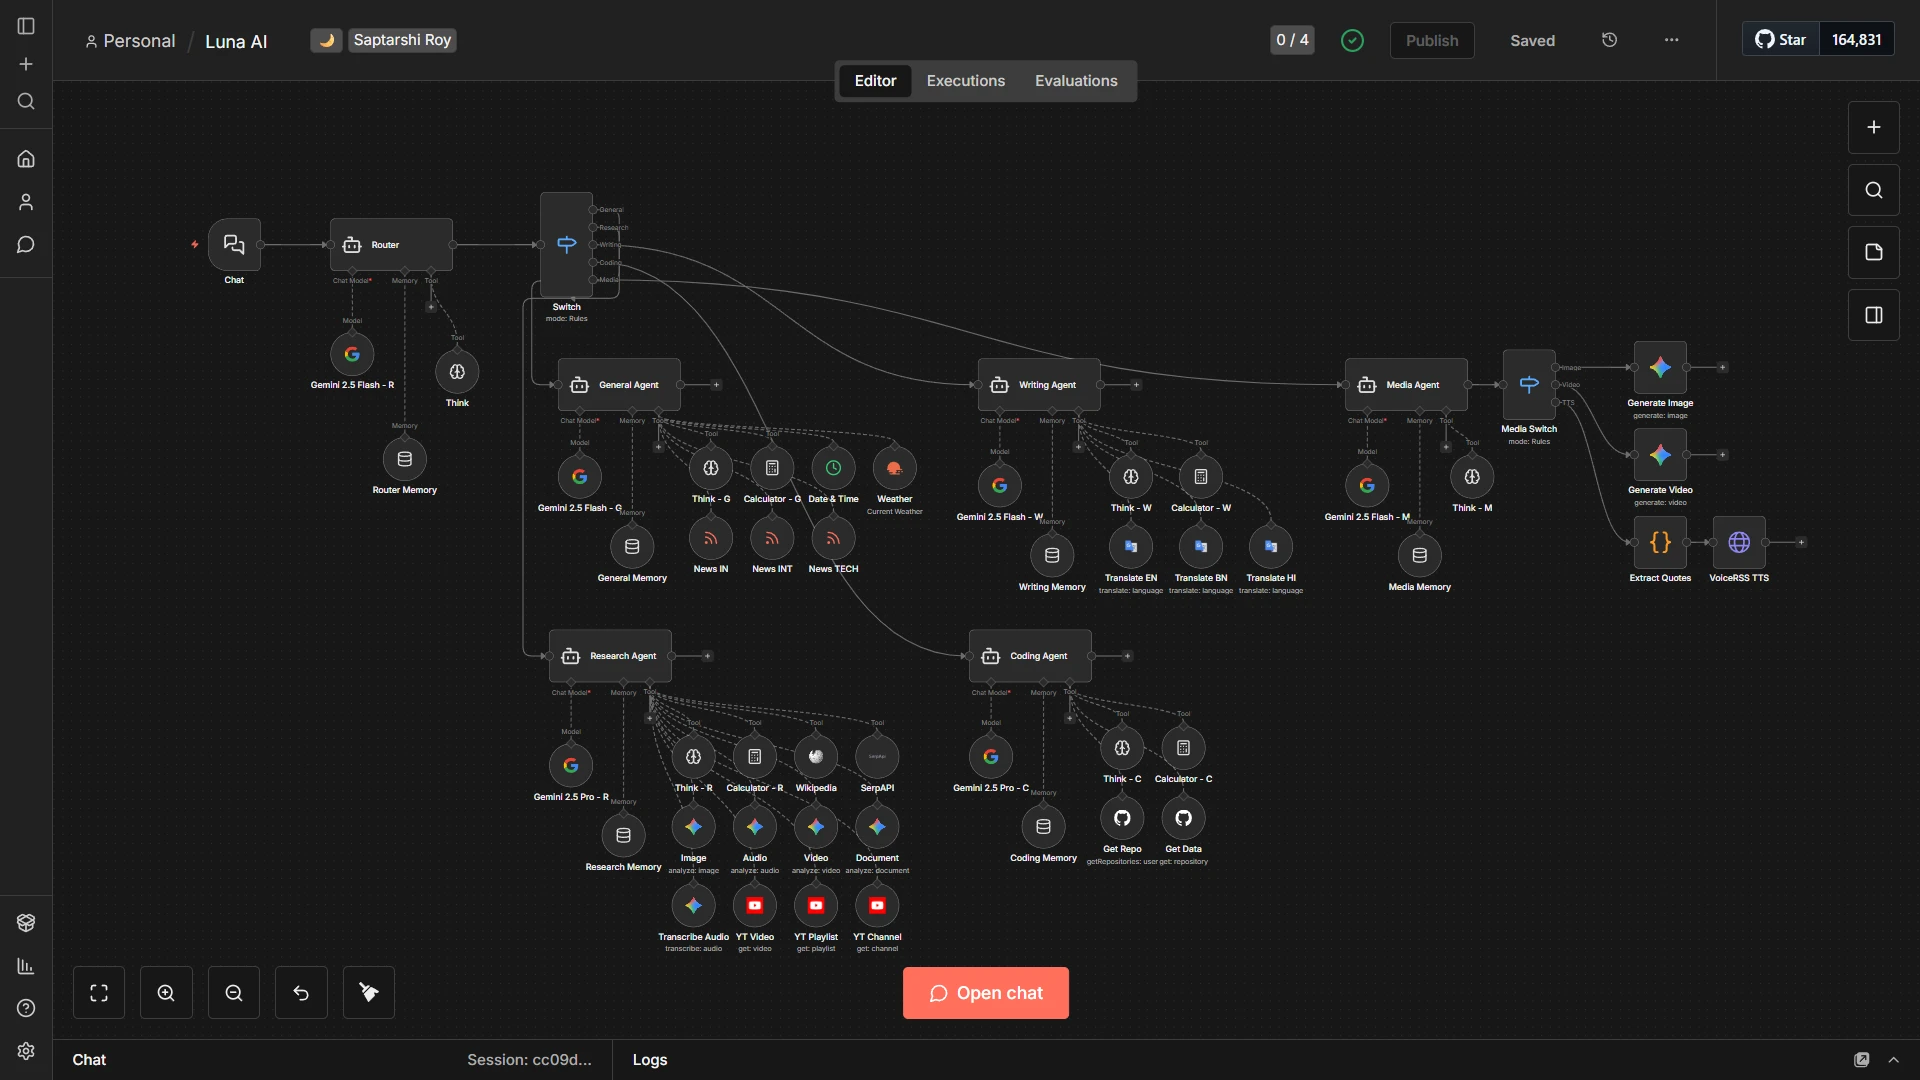
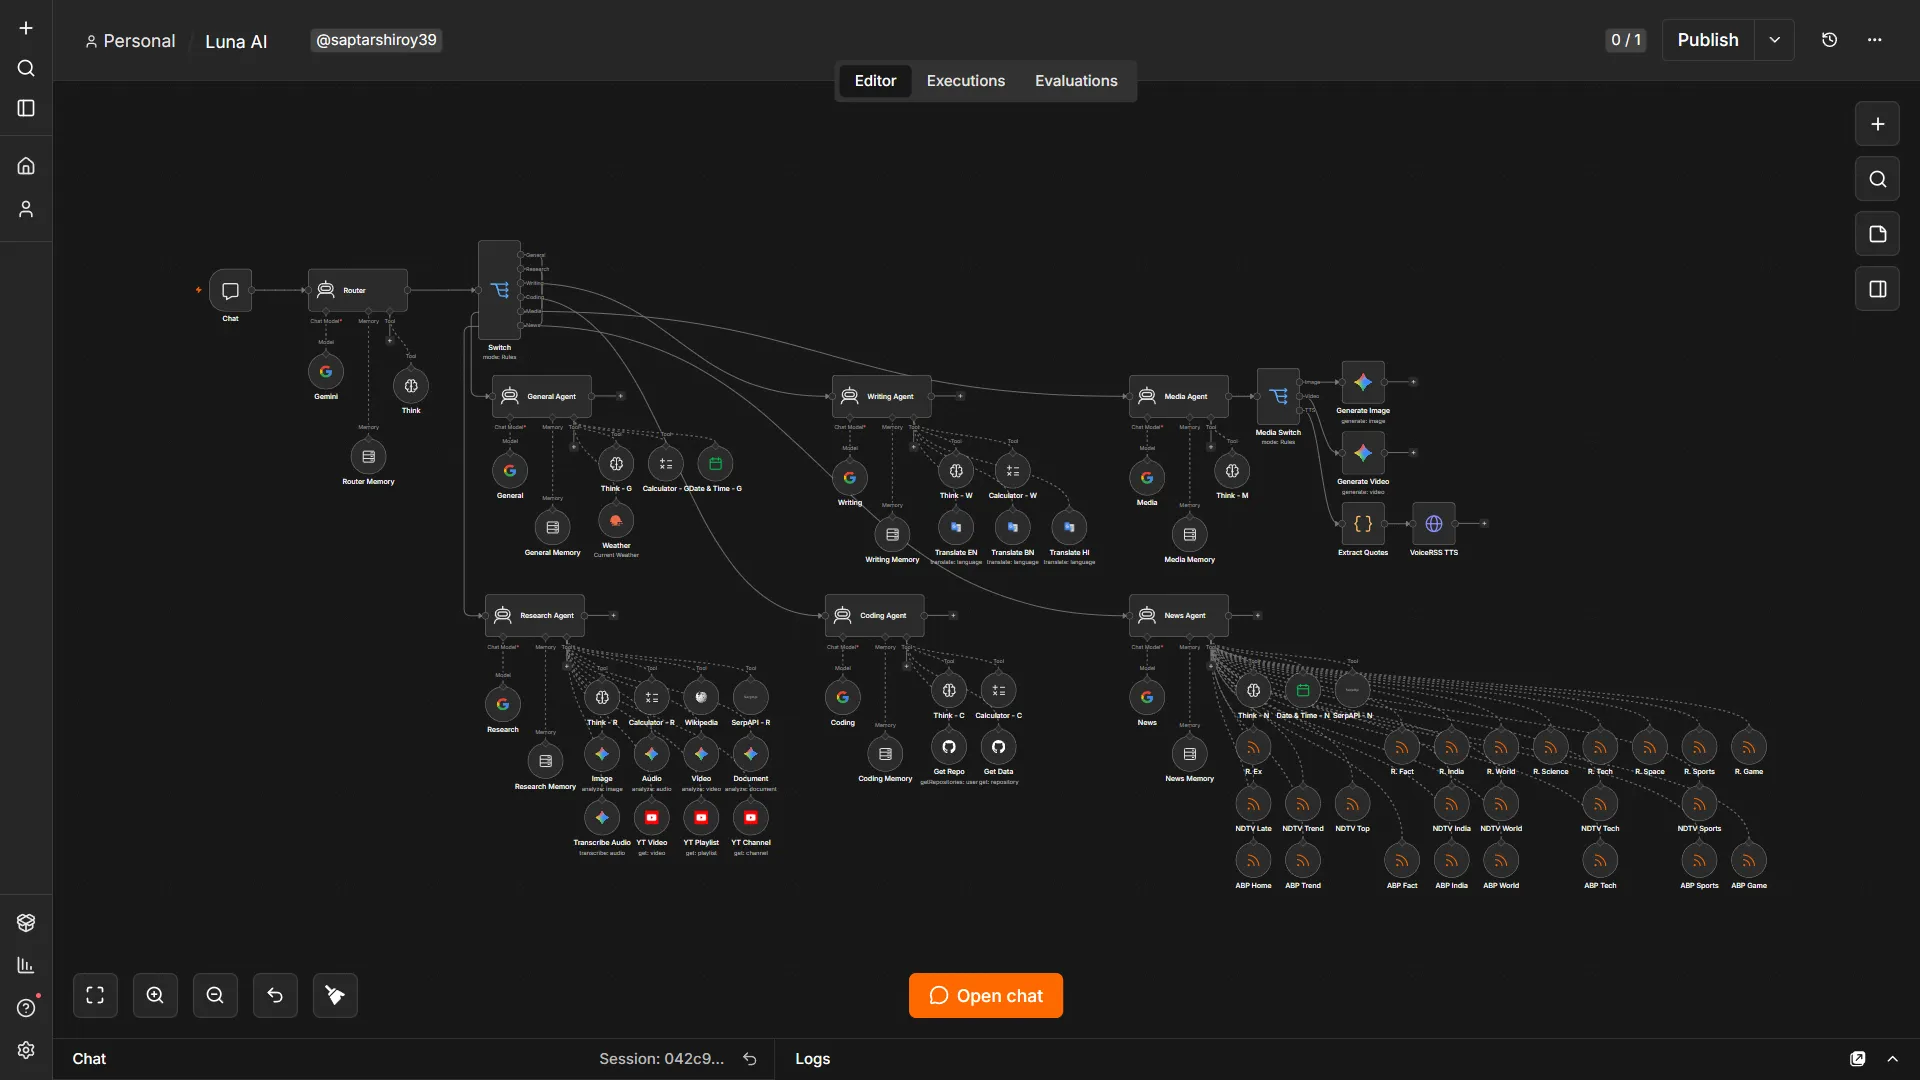
Update: Projects, 404 Page & Overall UI

diff --git a/src/data/projects.ts b/src/data/projects.ts
@@ -5,7 +5,18 @@ export default [
     dates: "Jun 2026 - Jun 2026",
     description:
       "A lightweight, type-safe Python library for working with & humanizing file sizes with clean, type-preserving helpers.",
-    tags: ["Python", "Pytest", "Ruff", "Setuptools", "PyPI"],
+    tags: [
+      "Python",
+      "TypeScript",
+      "Next.js",
+      "Tailwind CSS",
+      "shadcn/ui",
+      "Vercel",
+      "Pytest",
+      "Ruff",
+      "Setuptools",
+      "PyPI",
+    ],
     links: [
       {
         type: "Docs",
@@ -33,10 +44,14 @@ export default [
       "A Python library that converts natural language into executable code & executes them for instant data processing & analysis.",
     tags: [
       "Python",
-      "FastAPI",
-      "Next.js",
       "Gemini API",
+      "FastAPI",
       "Hugging Face",
+      "TypeScript",
+      "Next.js",
+      "Tailwind CSS",
+      "shadcn/ui",
+      "Vercel",
       "Ruff",
       "Setuptools",
       "PyPI",
@@ -97,11 +112,11 @@ export default [
     tags: [
       "Python",
       "FastAPI",
+      "Hugging Face",
       "TypeScript",
       "Next.js",
       "Tailwind CSS",
       "shadcn/ui",
-      "Hugging Face",
       "Vercel",
     ],
     links: [
@@ -154,7 +169,7 @@ export default [
 
   {
     title: "Luna AI",
-    href: "https://github.com/saptarshiroy39/luna-ai",
+    href: "https://community.n8n.io/t/luna-ai-n8n/305503",
     dates: "Oct 2025 - Dec 2025",
     description:
       "A multi-agent AI assistant that intelligently routes requests for specialized research, coding & media generation tasks.",
@@ -169,6 +184,11 @@ export default [
     ],
     links: [
       {
+        type: "Workflow",
+        href: "https://community.n8n.io/t/luna-ai-n8n/305503",
+        iconName: "workflow",
+      },
+      {
         type: "GitHub",
         href: "https://github.com/saptarshiroy39/luna-ai",
         iconName: "github",
@@ -179,12 +199,25 @@ export default [
 
   {
     title: "Hourly",
-    href: "https://github.com/saptarshiroy39/hourly",
+    href: "https://community.n8n.io/t/hourly-n8n/305271",
     dates: "Jul 2025 - Jul 2025",
     description:
       "An AI-powered email digest delivering personalized hourly updates on weather, news & entertainment.",
-    tags: ["n8n", "Gemini API", "GCP", "Google Sheet API", "Gmail SMTP"],
+    tags: [
+      "n8n",
+      "GCP",
+      "OpenWeatherMap API",
+      "icanhazdadjoke API",
+      "Hacker News API",
+      "Google Sheet API",
+      "Gmail API",
+    ],
     links: [
+      {
+        type: "Workflow",
+        href: "https://community.n8n.io/t/hourly-n8n/305271",
+        iconName: "workflow",
+      },
       {
         type: "GitHub",
         href: "https://github.com/saptarshiroy39/hourly",

diff --git a/src/app/contact/ContactForm.tsx b/src/app/contact/ContactForm.tsx
@@ -56,10 +56,10 @@ export default function ContactForm() {
         <Link
           href="/"
           onClick={() => haptic()}
-          className="text-xs font-mono text-muted-foreground hover:text-foreground transition-colors flex items-center gap-1 uppercase tracking-wider font-semibold"
+          className="flex items-center gap-1.5 text-xs font-mono font-bold border border-border/80 bg-muted/30 px-3 py-1 text-muted-foreground rounded-full hover:text-foreground hover:bg-muted/50 transition-colors cursor-pointer select-none w-fit"
         >
-          <IconArrowLeft className="size-3.5" />
-          Home
+          <IconArrowLeft className="size-3.5 select-none" />
+          <span>HOME</span>
         </Link>
       </div>
 
@@ -71,9 +71,9 @@ export default function ContactForm() {
           <div className="space-y-2">
             <label
               htmlFor="name"
-              className="block text-xs font-bold font-mono text-muted-foreground uppercase tracking-widest"
+              className="block text-xs font-bold font-mono text-muted-foreground tracking-widest"
             >
-              Name
+              NAME
             </label>
             <input
               id="name"
@@ -88,9 +88,9 @@ export default function ContactForm() {
           <div className="space-y-2">
             <label
               htmlFor="email"
-              className="block text-xs font-bold font-mono text-muted-foreground uppercase tracking-widest"
+              className="block text-xs font-bold font-mono text-muted-foreground tracking-widest"
             >
-              Email
+              EMAIL
             </label>
             <input
               id="email"
@@ -105,9 +105,9 @@ export default function ContactForm() {
           <div className="space-y-2">
             <label
               htmlFor="message"
-              className="block text-xs font-bold font-mono text-muted-foreground uppercase tracking-widest"
+              className="block text-xs font-bold font-mono text-muted-foreground tracking-widest"
             >
-              Message
+              MESSAGE
             </label>
             <textarea
               id="message"

diff --git a/src/components/section/Projects.tsx b/src/components/section/Projects.tsx
@@ -1,12 +1,11 @@
 "use client";
 
 import { useState } from "react";
-import { IconChevronDown } from "@tabler/icons-react";
+import { IconEye, IconEyeOff } from "@tabler/icons-react";
 import { ProjectCard } from "@/components/Project-Card";
 import { SectionHeader } from "@/components/ui/sec-header";
 import { DATA } from "@/data/resume";
 import { haptic } from "@/lib/haptic";
-import { cn } from "@/lib/utils";
 
 export default function Projects() {
   const [isExpanded, setIsExpanded] = useState(false);
@@ -31,15 +30,14 @@ export default function Projects() {
         <div className="flex justify-center pt-2">
           <button
             onClick={toggleExpand}
-            className="flex items-center gap-1.5 text-xs font-mono border border-border/80 bg-muted/30 px-2.5 py-1 text-muted-foreground rounded-md hover:text-foreground hover:bg-muted/50 transition-colors cursor-pointer select-none w-fit"
+            className="flex items-center gap-1.5 text-xs font-mono font-bold border border-border/80 bg-muted/30 px-3 py-1 text-muted-foreground rounded-full hover:text-foreground hover:bg-muted/50 transition-colors cursor-pointer select-none w-fit"
           >
-            <IconChevronDown
-              className={cn(
-                "size-3.5 transition-transform duration-200 select-none",
-                isExpanded && "rotate-180",
-              )}
-            />
-            <span>{isExpanded ? "Show Less" : "Show More"}</span>
+            {isExpanded ? (
+              <IconEyeOff className="size-3.5 select-none" />
+            ) : (
+              <IconEye className="size-3.5 select-none" />
+            )}
+            <span>{isExpanded ? "SHOW LESS" : "SHOW MORE"}</span>
           </button>
         </div>
       )}

diff --git a/src/app/layout.tsx b/src/app/layout.tsx
@@ -33,10 +33,10 @@ export const metadata: Metadata = {
   metadataBase: new URL("https://hirishi.in"),
   title: {
     default: "Saptarshi Roy",
-    template: "%s | Saptarshi Roy",
+    template: "%s | SR",
   },
   description:
-    "Gen AI & Agentic Developer building Python tools, AI agents, and automation workflows.",
+    "Gen AI & Agentic AI Developer crafting intelligent AI agents and automated workflows.",
   applicationName: "Saptarshi Roy",
   keywords: [
     "Saptarshi Roy",
@@ -100,14 +100,14 @@ export const metadata: Metadata = {
     url: "https://hirishi.in",
     title: "Saptarshi Roy",
     description:
-      "Gen AI & Agentic Developer building Python tools, AI agents, and automation workflows.",
+      "Gen AI & Agentic AI Developer crafting intelligent AI agents and automated workflows.",
     siteName: "Saptarshi Roy",
     images: [
       {
         url: "https://hirishi.in/OG.png",
         width: 1200,
         height: 630,
-        alt: "Saptarshi Roy - Gen AI & Agentic Developer",
+        alt: "Saptarshi Roy - Gen AI & Agentic AI Developer",
       },
     ],
   },
@@ -126,10 +126,15 @@ export const metadata: Metadata = {
     card: "summary_large_image",
     title: "Saptarshi Roy",
     description:
-      "Gen AI & Agentic Developer building Python tools, AI agents, and automation workflows.",
+      "Gen AI & Agentic AI Developer crafting intelligent AI agents and automated workflows.",
     images: ["https://hirishi.in/OG.png"],
     site: "@saptarshiroy39",
     creator: "@saptarshiroy39",
+  },
+  icons: {
+    icon: "/favicon.ico",
+    shortcut: "/favicon.ico",
+    apple: "/favicon.ico",
   },
   alternates: {
     canonical: "https://hirishi.in",

diff --git a/src/app/not-found.tsx b/src/app/not-found.tsx
@@ -1,6 +1,17 @@
 import Link from "next/link";
 import { InteractiveHoverButton } from "@/components/ui/int-hover-btn";
 import Particles from "@/components/Particles";
+import { Typewriter } from "@/components/ui/typewriter";
+
+const notFoundTexts = [
+  "Scanning Sector 404...",
+  "Detecting Deep Space Signals...",
+  "Searching for Organic Lifeforms...",
+  "Contacting Alien Civilizations...",
+  "Entering the Cosmic Void...",
+  "Recalculating Warp Coordinates...",
+  "Signal Lost in a Black Hole...",
+];
 
 export default function NotFound() {
   return (
@@ -25,8 +36,8 @@ export default function NotFound() {
         <h1 className="text-3xl sm:text-4xl font-normal font-heading leading-none tracking-tight text-foreground">
           Lost in Space
         </h1>
-        <p className="text-sm leading-relaxed text-muted-foreground font-mono max-w-md mx-auto">
-          404: This page could not be found.
+        <p className="text-xs sm:text-sm font-semibold font-mono text-muted-foreground max-w-md mx-auto min-h-[1.5rem]">
+          <Typewriter words={notFoundTexts} />
         </p>
       </div>
 

diff --git a/src/components/Footer.tsx b/src/components/Footer.tsx
@@ -18,10 +18,10 @@ export default function Footer() {
         <FluidGradientText text={firstName} />
       </div>
 
-      <p className="font-mono text-muted-foreground text-center text-xs">
-        &copy; {currentYear}{" "}
+      <p className="font-mono text-muted-foreground text-center text-sm">
+        © {currentYear}{" "}
         <button
-          className="cursor-pointer bg-transparent border-0 p-0 font-mono text-muted-foreground hover:text-foreground transition-colors text-xs"
+          className="cursor-pointer bg-transparent border-0 p-0 font-mono text-muted-foreground hover:text-foreground transition-colors text-sm"
           onClick={() => {
             haptic();
             window.scrollTo({ top: 0, behavior: "smooth" });

diff --git a/src/app/projects/ProjectsView.tsx b/src/app/projects/ProjectsView.tsx
@@ -15,10 +15,10 @@ export default function ProjectsView() {
         <Link
           href="/"
           onClick={() => haptic()}
-          className="text-xs font-mono text-muted-foreground hover:text-foreground transition-colors flex items-center gap-1 uppercase tracking-wider font-semibold"
+          className="flex items-center gap-1.5 text-xs font-mono font-bold border border-border/80 bg-muted/30 px-3 py-1 text-muted-foreground rounded-full hover:text-foreground hover:bg-muted/50 transition-colors cursor-pointer select-none w-fit"
         >
-          <IconArrowLeft className="size-3.5" />
-          Home
+          <IconArrowLeft className="size-3.5 select-none" />
+          <span>HOME</span>
         </Link>
       </div>
 

diff --git a/src/components/section/Contact.tsx b/src/components/section/Contact.tsx
@@ -11,7 +11,7 @@ export default function Contact() {
       <SectionHeader>Scrolled Too Far</SectionHeader>
       <div className="flex flex-col items-center justify-center gap-4 py-8 text-center">
         <p className="text-muted-foreground text-sm sm:text-base">
-          If you&apos;ve read this far, you might be interested in what I do.
+          If you&apos;ve read this far, you might be interested.
         </p>
         <Link href="/contact" onClick={() => haptic()} className="mt-2">
           <InteractiveHoverButton>Let&apos;s Talk</InteractiveHoverButton>

diff --git a/src/components/Header.tsx b/src/components/Header.tsx
@@ -36,7 +36,7 @@ export default function Header() {
                     haptic();
                   }}
                   className={cn(
-                    "text-xs font-mono tracking-wider transition-colors uppercase font-medium",
+                    "text-xs font-mono tracking-wider transition-colors font-medium",
                     isActive
                       ? "text-foreground font-semibold"
                       : "text-muted-foreground hover:text-foreground",

diff --git a/src/components/Project-Card.tsx b/src/components/Project-Card.tsx
@@ -4,6 +4,7 @@ import { useState } from "react";
 import Image from "next/image";
 import Link from "next/link";
 import {
+  IconArrowsSplit2,
   IconArrowUpRight,
   IconBook,
   IconBrandGithub,
@@ -25,6 +26,7 @@ const ICON_MAP: Record<string, React.ComponentType<{ className?: string }>> = {
   vscode: IconBrandVscode,
   diamonds: IconDiamonds,
   world: IconWorld,
+  workflow: IconArrowsSplit2,
 };
 
 interface Props {

diff --git a/src/data/navigation.ts b/src/data/navigation.ts
@@ -1,5 +1,5 @@
 export default [
-  { label: "Projects", href: "/projects" },
-  { label: "Sponsor", href: "https://github.com/sponsors/saptarshiroy39" },
-  { label: "Contact", href: "/contact" },
+  { label: "PROJECTS", href: "/projects" },
+  { label: "SPONSOR", href: "https://github.com/sponsors/saptarshiroy39" },
+  { label: "CONTACT", href: "/contact" },
 ] as const;
